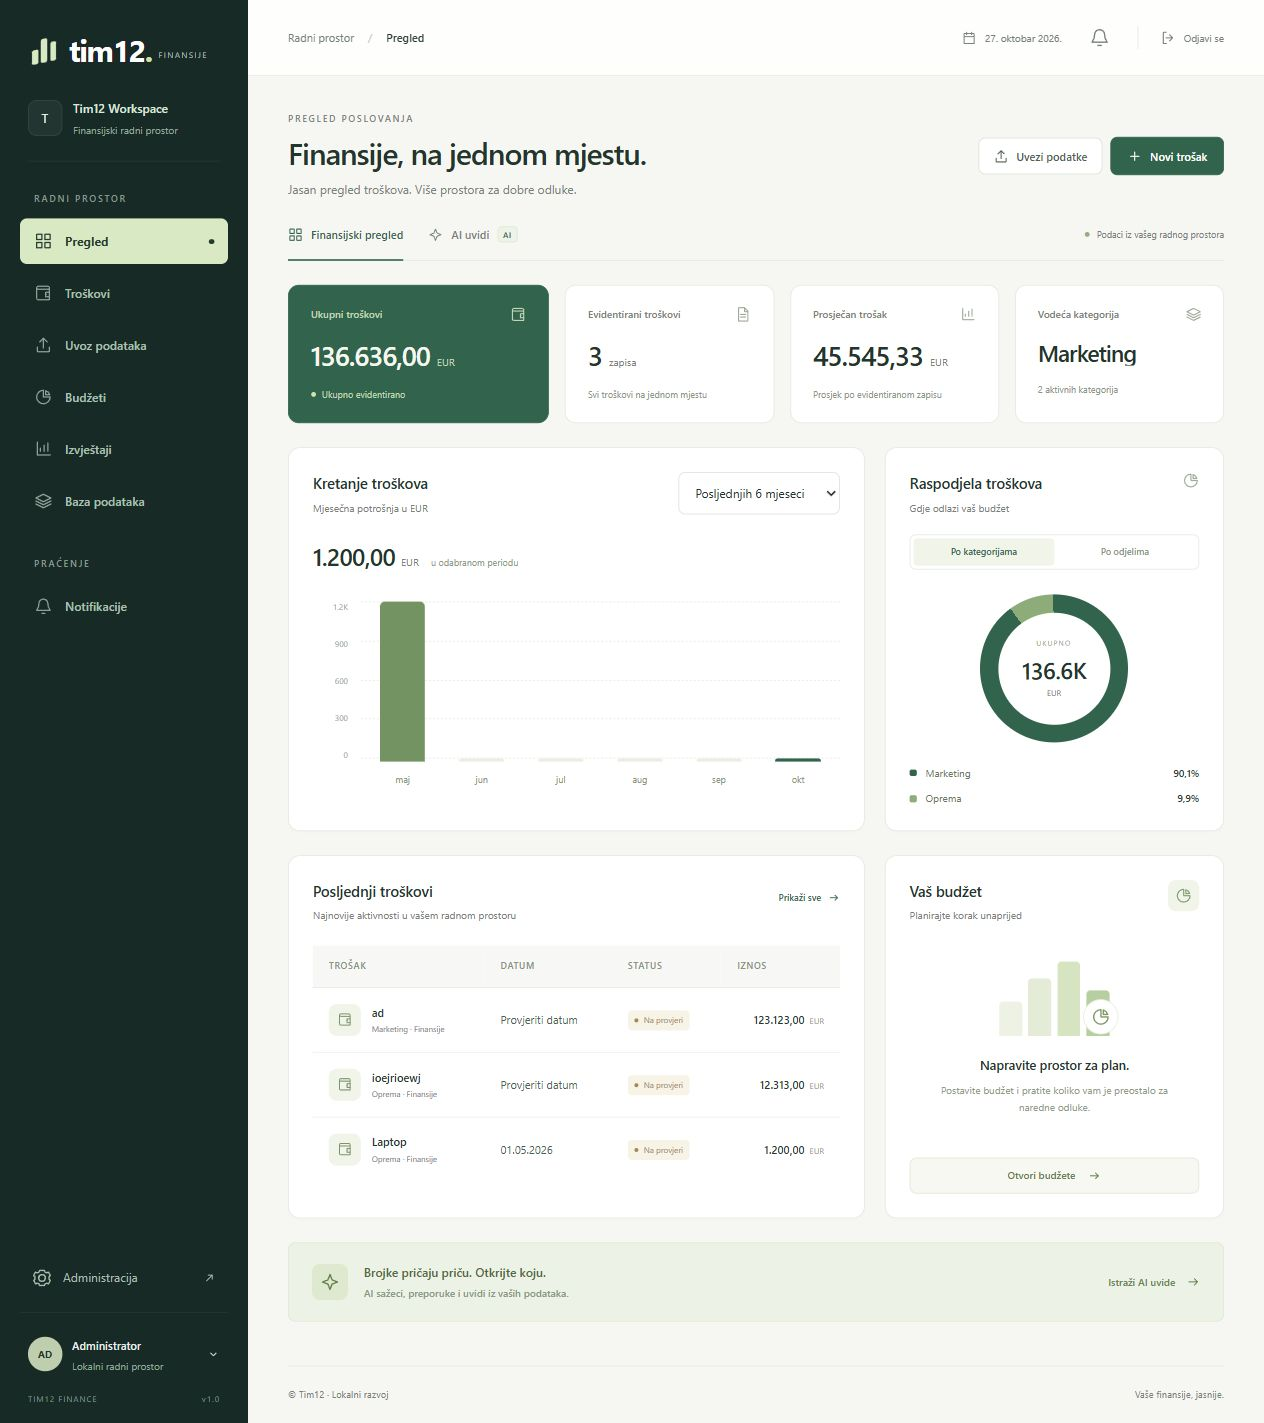
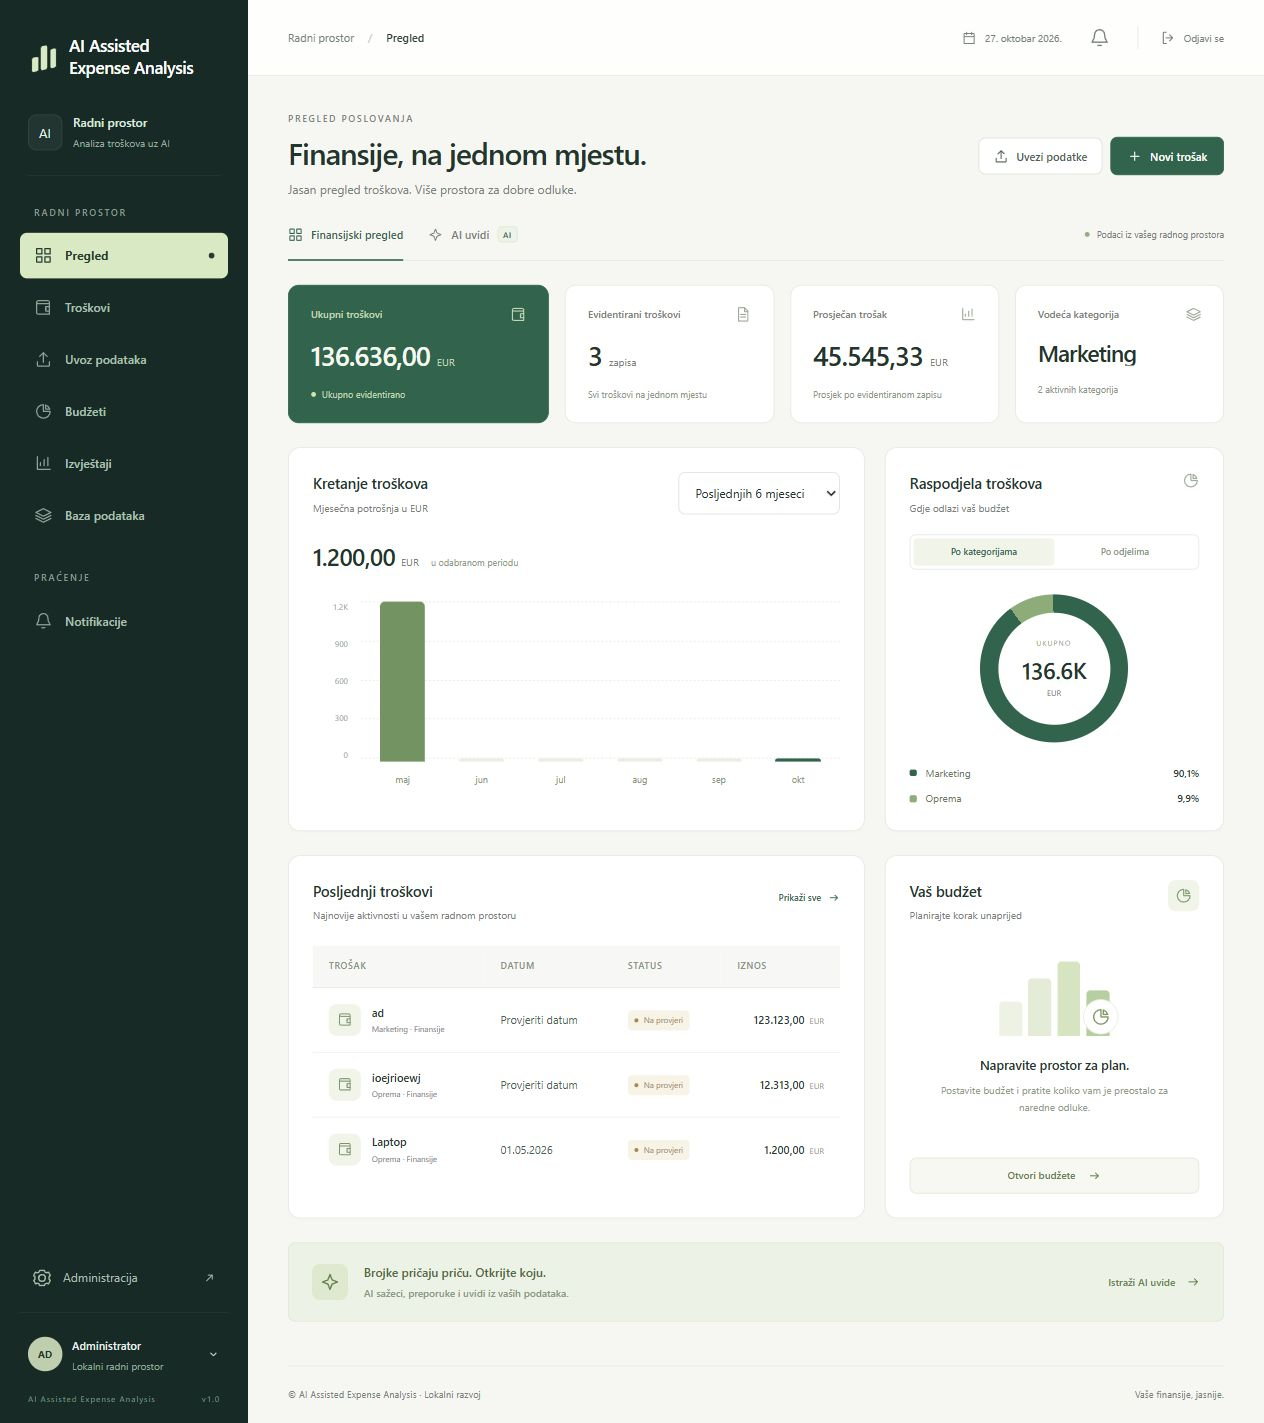
chore: rename project to AI Assisted Expense Analysis

Changed region(s): [[0.0, 0.0309, 0.1851, 0.371], [0.0309, 0.402, 0.0926, 0.4638]]

diff --git a/PROJEKAT/FRONTEND/src/app/app.html b/PROJEKAT/FRONTEND/src/app/app.html
@@ -9,16 +9,16 @@
   <aside class="sidebar" aria-label="Bočna navigacija">
     <a
       class="brand-link"
+      [attr.aria-label]="projectName"
       [routerLink]="isAuthenticated ? '/home' : '/'"
       (click)="mobileNavigationOpen = false"
     >
       <span class="brand-mark"><span></span><span></span><span></span></span>
-      <strong>tim12<span class="brand-dot">.</span></strong
-      ><small>FINANSIJE</small>
+      <strong>AI Assisted<br />Expense Analysis</strong>
     </a>
     <div class="workspace-label">
-      <span class="workspace-avatar">T</span>
-      <div><strong>Tim12 Workspace</strong><small>Finansijski radni prostor</small></div>
+      <span class="workspace-avatar">AI</span>
+      <div><strong>Radni prostor</strong><small>Analiza troškova uz AI</small></div>
     </div>
     @if (isAuthenticated) {
       <p class="nav-caption">RADNI PROSTOR</p>
@@ -64,14 +64,14 @@
           ><span
             ><strong>{{ isAdmin ? 'Administrator' : 'Korisnički profil' }}</strong
             ><small>{{
-              localEnvironment ? 'Lokalni radni prostor' : 'Tim12 Finansije'
+              localEnvironment ? 'Lokalni radni prostor' : projectName
             }}</small></span
           ><ui-icon name="down"
         /></a>
       } @else {
         <p class="sidebar-note">Manje administracije.<br />Više kontrole nad finansijama.</p>
       }
-      <span class="sidebar-version">TIM12 FINANCE <span>v1.0</span></span>
+      <span class="sidebar-version">{{ projectName }} <span>v1.0</span></span>
     </div>
   </aside>
   <section class="workspace">
@@ -124,7 +124,7 @@
     }
     <main id="main-content"><router-outlet /></main>
     <footer class="workspace-footer">
-      <span>© {{ localEnvironment ? 'Tim12 · Lokalni razvoj' : 'Tim12 Finansije' }}</span
+      <span>© {{ projectName }}{{ localEnvironment ? ' · Lokalni razvoj' : '' }}</span
       ><span>Vaše finansije, jasnije.</span>
     </footer>
   </section>

diff --git a/PROJEKAT/FRONTEND/src/index.html b/PROJEKAT/FRONTEND/src/index.html
@@ -2,13 +2,13 @@
 <html lang="bs">
   <head>
     <meta charset="utf-8" />
-    <title>Tim12 · Finansijski radni prostor</title>
+    <title>AI Assisted Expense Analysis</title>
     <base href="/" />
     <meta name="viewport" content="width=device-width, initial-scale=1" />
     <meta name="theme-color" content="#172a26" />
     <meta
       name="description"
-      content="Jasan pregled troškova, budžeta i poslovnih odluka. Tim12 finansijski radni prostor."
+      content="AI Assisted Expense Analysis — jasan pregled troškova, budžeta i poslovnih odluka uz AI uvide."
     />
     <link rel="icon" type="image/svg+xml" href="favicon.svg" />
   </head>

diff --git a/PROJEKAT/FRONTEND/src/app/app.ts b/PROJEKAT/FRONTEND/src/app/app.ts
@@ -28,6 +28,7 @@ export class App implements OnInit, OnDestroy {
   public readonly reportRoles = ['admin', 'glavni_racunovodja', 'finansijski_direktor'];
   public readonly notificationRoles = ['admin', 'glavni_racunovodja', 'finansijski_direktor'];
   public readonly adminConsoleUrl = `${environment.keycloakUrl}/`;
+  public readonly projectName = 'AI Assisted Expense Analysis';
   public mobileNavigationOpen = false;
   public readonly localEnvironment = environment.localAuth;
   public readonly todayLabel = (() => {

diff --git a/PROJEKAT/FRONTEND/src/app/app.css b/PROJEKAT/FRONTEND/src/app/app.css
@@ -31,22 +31,13 @@
   padding: 0 12px;
 }
 .brand-link strong {
-  font-size: 30px;
-  font-weight: 650;
-  letter-spacing: -1.3px;
-  line-height: 1;
-}
-.brand-dot {
-  color: #c6e4a8;
-}
-.brand-link > small {
-  align-self: flex-end;
-  font-size: 8px;
-  letter-spacing: 1.4px;
-  margin: 0 0 3px -4px;
-  color: #a9bbb1;
+  font-size: 17px;
+  font-weight: 550;
+  letter-spacing: -0.35px;
+  line-height: 1.3;
 }
 .brand-mark {
+  flex-shrink: 0;
   display: flex;
   gap: 3px;
   align-items: flex-end;

diff --git a/PROJEKAT/FRONTEND/src/app/app.spec.ts b/PROJEKAT/FRONTEND/src/app/app.spec.ts
@@ -46,6 +46,7 @@ describe('App', () => {
     const fixture = TestBed.createComponent(App);
     await fixture.whenStable();
     const compiled = fixture.nativeElement as HTMLElement;
-    expect(compiled.querySelector('.brand-link')?.textContent?.toLowerCase()).toContain('tim12');
+    expect(compiled.querySelector('.brand-link')?.getAttribute('aria-label')).toBe('AI Assisted Expense Analysis');
+    expect(compiled.querySelector('.brand-link')?.textContent).toContain('AI Assisted');
   });
 });

diff --git a/PROJEKAT/BACKEND/BLL/Services/ReportService.ts b/PROJEKAT/BACKEND/BLL/Services/ReportService.ts
@@ -150,7 +150,7 @@ export class ReportService implements IReportService {
     workbook.Props = {
       Title: reportType === "detaljni" ? "Detaljni izvjestaj o troskovima" : "Sazeti izvjestaj o troskovima",
       Subject: this.getPeriodLabel(report),
-      Author: "TIM12",
+      Author: "AI Assisted Expense Analysis",
       CreatedDate: new Date(),
     };
 

diff --git a/PROJEKAT/FRONTEND/src/app/components/homepage/homepage.html b/PROJEKAT/FRONTEND/src/app/components/homepage/homepage.html
@@ -37,7 +37,7 @@
       </div>
       <div class="preview-card">
         <div class="preview-heading">
-          <span class="mini-logo">t12.</span><span>Finansijski pregled</span
+          <span class="mini-logo">AI</span><span>Finansijski pregled</span
           ><span class="mini-menu">···</span>
         </div>
         <div class="preview-total">

diff --git a/PROJEKAT/BACKEND/ai-service/app/main.py b/PROJEKAT/BACKEND/ai-service/app/main.py
@@ -18,7 +18,7 @@ from app.services.category_service import CategoryService
 
 
 app = FastAPI(
-    title="Grupa12 AI Analytics Service",
+    title="AI Assisted Expense Analysis — AI Service",
     description="Internal AI analytics service for expense analysis, forecasts, anomalies, and category suggestions.",
     version="0.1.0",
 )

diff --git a/README.md b/README.md
@@ -1,4 +1,4 @@
-# CompanyDashboard · Tim12 Finansije
+# AI Assisted Expense Analysis
 
 Web aplikacija za praćenje poslovnih troškova, planiranje budžeta i finansijsko izvještavanje. Podaci o troškovima, odjelima, kategorijama i dobavljačima objedinjeni su u jednom radnom prostoru, uz grafikone, poređenja i AI uvide.
 
@@ -18,7 +18,7 @@ Screenshotovi su snimljeni iz lokalno pokrenute aplikacije i nalaze se u folderu
 
 ### Početna stranica
 
-![Početna stranica aplikacije Tim12 Finansije](screenshots/01-pocetna-stranica.jpg)
+![Početna stranica aplikacije AI Assisted Expense Analysis](screenshots/01-pocetna-stranica.jpg)
 
 ### Finansijski pregled
 
@@ -47,7 +47,7 @@ Screenshotovi su snimljeni iz lokalno pokrenute aplikacije i nalaze se u folderu
 ## Struktura repozitorija
 
 ```text
-CompanyDashboard/
+AI Assisted Expense Analysis/
 ├── PROJEKAT/
 │   ├── FRONTEND/                # Angular aplikacija
 │   └── BACKEND/

diff --git a/dokumentacija/tehnicka/frontend.md b/dokumentacija/tehnicka/frontend.md
@@ -38,7 +38,7 @@ npm.cmd test -- --watch=false
 npm.cmd run build
 ```
 
-Izgradnja se zapisuje u `dist/TIM12Frontend/browser`. `npm.cmd start` služi za posluživanje izgrađenih fajlova i očekuje varijablu `PORT`; za svakodnevni lokalni razvoj koristite `npm.cmd run dev`.
+Izgradnja se zapisuje u `dist/ai-assisted-expense-analysis/browser`. `npm.cmd start` služi za posluživanje izgrađenih fajlova i očekuje varijablu `PORT`; za svakodnevni lokalni razvoj koristite `npm.cmd run dev`.
 
 ## Okruženja i prijava
 

diff --git a/dokumentacija/README.md b/dokumentacija/README.md
@@ -1,6 +1,6 @@
 # Dokumentacija
 
-Ovdje se nalazi prateća dokumentacija projekta **CompanyDashboard / Tim12 Finansije**. Izvorni kod ostaje u [PROJEKAT](../PROJEKAT/), a glavni pregled projekta nalazi se u [korijenskom README-u](../README.md).
+Ovdje se nalazi prateća dokumentacija projekta **AI Assisted Expense Analysis**. Izvorni kod ostaje u [PROJEKAT](../PROJEKAT/), a glavni pregled projekta nalazi se u [korijenskom README-u](../README.md).
 
 ## Aktuelne upute
 

diff --git a/dokumentacija/Sprint 1/ProductBacklog.md b/dokumentacija/Sprint 1/ProductBacklog.md
@@ -1,4 +1,4 @@
-# Tim 12: Sistem za AI asistirano analiziranje troškova firme i otkrivanje odstupanja
+# AI Assisted Expense Analysis
 
 ## Kratak opis projekta
 Sistem treba omogućiti unos, uvoz i organizaciju podataka o troškovima firme iz različitih izvora, njihovu klasifikaciju po kategorijama, odjelima, projektima i vremenskim periodima te analizu trendova, budžetskih odstupanja i neuobičajenih obrazaca potrošnje.
